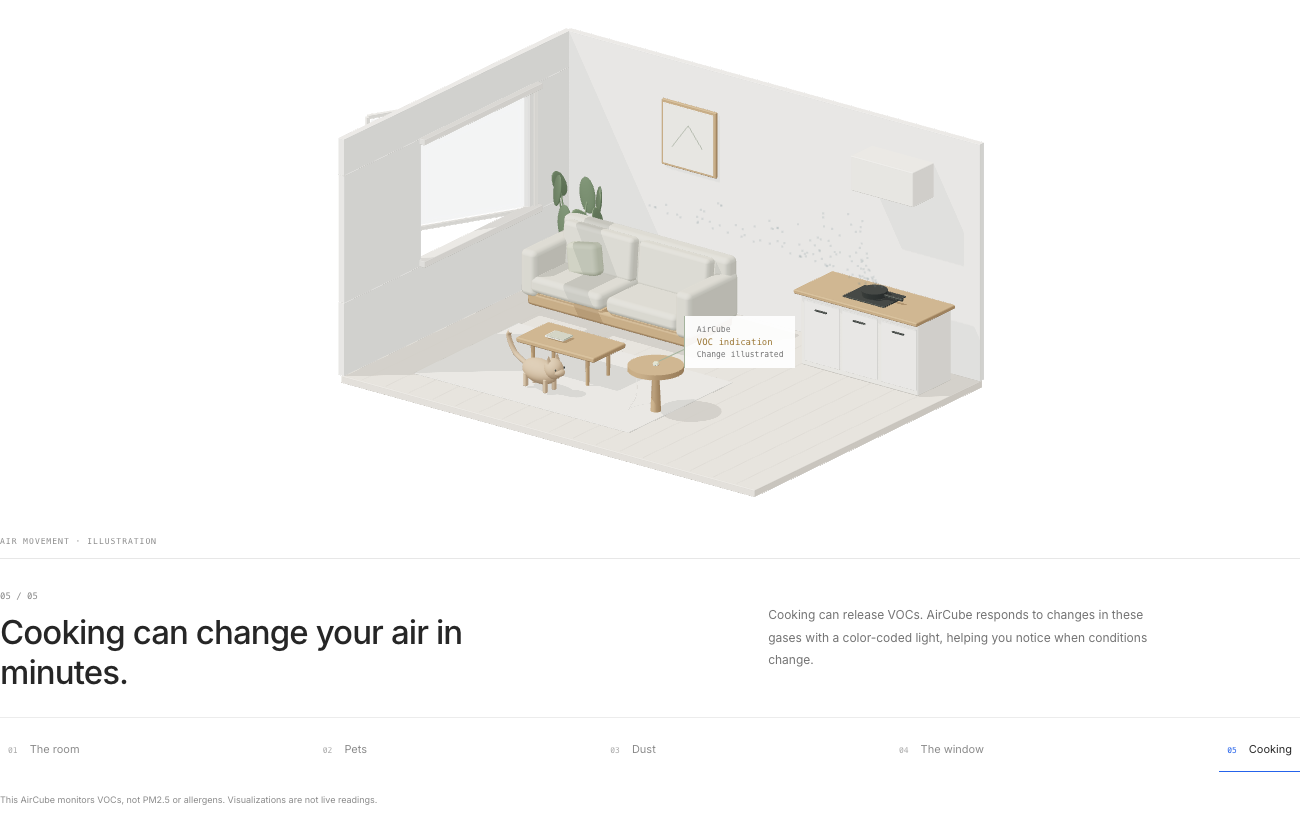
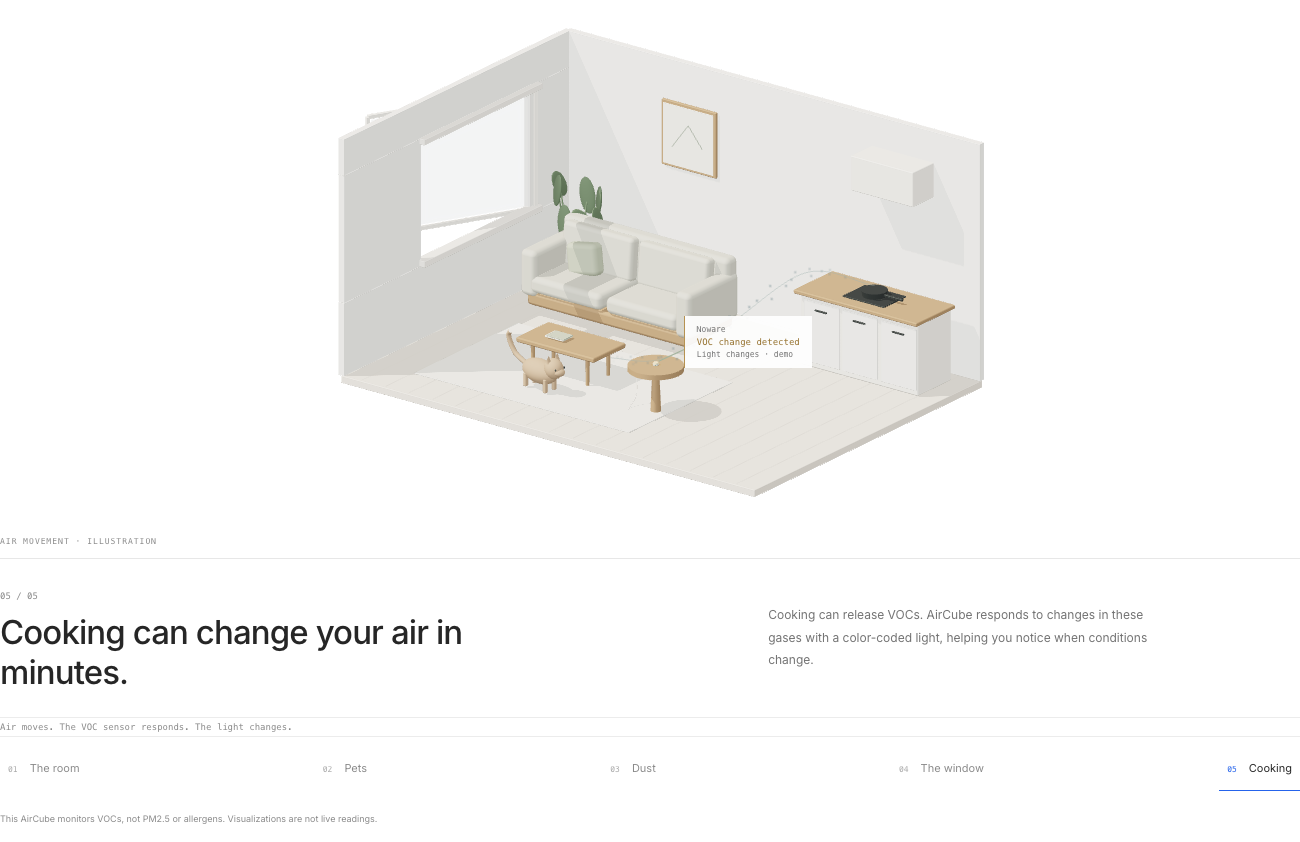
Make room illustration continuous with staged VOC detection

diff --git a/src/purpose/room.js b/src/purpose/room.js
@@ -2,6 +2,7 @@ import * as T from 'three';
 import {RoundedBoxGeometry} from 'three/addons/geometries/RoundedBoxGeometry.js';
 import {GLTFLoader} from 'three/addons/loaders/GLTFLoader.js';
 import {RoomEnvironment} from 'three/addons/environments/RoomEnvironment.js';
+import {roomFlowPaths,flowActivity,detectionPose,illustrationDuration} from './flow.js';
 const smooth=x=>{x=T.MathUtils.clamp(x,0,1);return x*x*(3-2*x)};
 export async function createRoom(host,state,onReady){
  const renderer=new T.WebGLRenderer({antialias:true,alpha:true,preserveDrawingBuffer:true});renderer.setPixelRatio(Math.min(devicePixelRatio,1.7));renderer.setClearColor('#fff',0);renderer.toneMapping=T.ACESFilmicToneMapping;renderer.toneMappingExposure=1;renderer.shadowMap.enabled=true;renderer.shadowMap.type=T.PCFShadowMap;
@@ -42,28 +43,43 @@ export async function createRoom(host,state,onReady){
  const cat=new T.Group();scene.add(cat);ball(.23,.13,.11,0,.19,0,materials.fur,cat);ball(.11,.11,.09,.2,.27,0,materials.fur,cat);ball(.065,.045,.065,.27,.25,0,materials.fur,cat);
  for(const z of [-.062,.062]){const ear=new T.Mesh(new T.ConeGeometry(.045,.09,3),materials.fur);ear.position.set(.18,.38,z);ear.rotation.z=-.2;cat.add(ear);ball(.009,.012,.008,.285,.29,z,materials.metal,cat)}
  const paws=[];for(const x of [-.14,.14])for(const z of [-.065,.065])paws.push(box(.043,.15,.044,x,.08,z,materials.fur,.02,cat));tube([[-.2,.22,0],[-.36,.3,0],[-.43,.48,.02],[-.39,.53,.03]],.025,materials.fur,cat);
- const particleCount=120,positions=new Float32Array(particleCount*3),particleGeo=new T.BufferGeometry();particleGeo.setAttribute('position',new T.BufferAttribute(positions,3));
+ const particleCount=160,positions=new Float32Array(particleCount*3),opacities=new Float32Array(particleCount),particleGeo=new T.BufferGeometry();particleGeo.setAttribute('position',new T.BufferAttribute(positions,3));particleGeo.setAttribute('aOpacity',new T.BufferAttribute(opacities,1));
  const dot=document.createElement('canvas');dot.width=dot.height=32;const ctx=dot.getContext('2d'),gradient=ctx.createRadialGradient(16,16,0,16,16,16);gradient.addColorStop(0,'#fff');gradient.addColorStop(.5,'#ffffffbb');gradient.addColorStop(1,'#ffffff00');ctx.fillStyle=gradient;ctx.fillRect(0,0,32,32);const dotTexture=new T.CanvasTexture(dot);
- const particles=new T.Points(particleGeo,new T.PointsMaterial({size:2.2,map:dotTexture,color:'#778b90',transparent:true,opacity:0,depthWrite:false,sizeAttenuation:false}));scene.add(particles);
+ const particles=new T.Points(particleGeo,new T.PointsMaterial({size:3,map:dotTexture,color:'#778b90',transparent:true,opacity:.75,depthWrite:false,sizeAttenuation:false}));scene.add(particles);
+ particles.material.onBeforeCompile=shader=>{shader.vertexShader=shader.vertexShader.replace('#include <common>','#include <common>\nattribute float aOpacity; varying float vOpacity;').replace('#include <begin_vertex>','#include <begin_vertex>\nvOpacity=aOpacity;');shader.fragmentShader=shader.fragmentShader.replace('#include <common>','#include <common>\nvarying float vOpacity;').replace('#include <color_fragment>','#include <color_fragment>\ndiffuseColor.a *= vOpacity;');};
+ const curves=roomFlowPaths.map(points=>new T.CatmullRomCurve3(points.map(p=>new T.Vector3(...p))));
+ const trails=curves.map(curve=>{const line=new T.Line(new T.BufferGeometry().setFromPoints(curve.getPoints(80)),new T.LineBasicMaterial({color:'#91a5a2',transparent:true,opacity:0,depthWrite:false}));scene.add(line);return line});
+ const pulse=new T.Mesh(new T.RingGeometry(.045,.049,48),new T.MeshBasicMaterial({color:'#c6a05d',transparent:true,opacity:0,depthWrite:false,side:T.DoubleSide}));pulse.rotation.x=-Math.PI/2;pulse.position.set(.53,.521,.8);scene.add(pulse);
+ const flowPoint=new T.Vector3();
  scene.add(new T.HemisphereLight('#fffaf0','#d4d5d0',1));const sunlight=new T.DirectionalLight('#fff4df',2.6);sunlight.position.set(-3.5,6,3);sunlight.castShadow=true;sunlight.shadow.mapSize.set(2048,2048);Object.assign(sunlight.shadow.camera,{left:-4,right:4,top:4,bottom:-4,near:.5,far:16});sunlight.shadow.bias=-.0003;sunlight.shadow.normalBias=.015;scene.add(sunlight);const fill=new T.DirectionalLight('#e5efff',.6);fill.position.set(4,3,4);scene.add(fill);
  let product;try{product=(await new GLTFLoader().loadAsync('/showcase/aircube-base.glb')).scene;}catch(error){dispose();throw error}
  product.scale.setScalar(.001);product.position.set(.53,.518,.8);product.rotation.y=.3;product.traverse(o=>{if(o.isMesh)o.castShadow=o.receiveShadow=true});scene.add(product);
  const diffuser=product.getObjectByName('diffuser');diffuser.material.dispose();diffuser.material=new T.MeshPhysicalMaterial({color:'#c8dfb9',roughness:.5,transmission:.08,thickness:.0013,emissive:'#91d980',emissiveIntensity:.3});
  const canvas=renderer.domElement;canvas.setAttribute('role','img');canvas.setAttribute('aria-label','A shared living room with a sofa, cat, openable window, kitchen and AirCube on a side table. Air movement is illustrated.');host.append(canvas);
  const anchor=host.parentElement.querySelector('.room-device-label');
- function render(now){raf=0;if(dead||!visible||document.hidden)return;const dt=Math.min(.06,(now-last)/1000);last=now;time+=dt;progress=state.reduced?state.progress:T.MathUtils.damp(progress,state.progress,9,dt);
+ function render(now){raf=0;if(dead||!visible||document.hidden)return;const dt=Math.min(.06,(now-last)/1000);last=now;if(state.mode!=='paused')time+=dt;if(state.mode==='play'&&!state.reduced){state.progress=Math.min(.999,state.progress+dt/illustrationDuration);if(state.progress>=.999)state.mode='paused'}progress=state.reduced?state.progress:T.MathUtils.damp(progress,state.progress,9,dt);
  const chapter=Math.min(4,Math.floor(progress*5)),local=progress*5-chapter,activity=smooth(local*2);
  const walking=chapter===1?activity:chapter>1?1:0;cat.position.set(T.MathUtils.lerp(-1.7,-.78,walking),.025,1.03);cat.rotation.y=-.13;for(let i=0;i<paws.length;i++)paws[i].rotation.z=chapter===1&&!state.reduced?Math.sin(time*6+i%2*Math.PI)*.22*(1-activity):0;
  pillow.rotation.z=.18+(chapter===2?Math.sin(local*Math.PI*4)*.16*Math.sin(local*Math.PI):0);pillow.position.y=.59+(chapter===2?Math.sin(local*Math.PI*2)**2*.11:0);sash.rotation.y=chapter===3?-.48*activity:chapter>3?-.48:0;
- const show=(chapter>0?Math.min(1,activity*1.5):smooth((local-.35)*3))*(1-smooth((local-.82)/.18));particles.material.opacity=show*.45;
- const sources=[[-.6,.3,.4],[-.9,.15,1],[-1.73,.7,-.99],[-2.55,1.3,-.35],[1.65,.94,-1.42]];const origin=sources[chapter];
- for(let i=0;i<particleCount;i++){const seed=(Math.sin(i*12.9898+3)*43758.5453)%1+.5,life=((seed+(state.reduced?0:time*.065))%1+1)%1,a=i*1.74533;positions[i*3]=origin[0]+Math.cos(a+life)*(.12+life*.8)+(chapter===3?life*2.3:chapter===4?-life*.7:life*.2);positions[i*3+1]=origin[1]+life*(chapter===4?1:.65)+Math.sin(a)*.07;positions[i*3+2]=origin[2]+Math.sin(a)*life*.7+(chapter===4?life*1.1:0)}particleGeo.attributes.position.needsUpdate=true;
+ const detection=detectionPose(progress);
+ for(let source=0;source<curves.length;source++){
+  const strength=flowActivity(progress,source),head=source===3?detection.arrival:1;
+  trails[source].material.opacity=strength*(source===3?.4:.18);trails[source].geometry.setDrawRange(0,Math.max(0,Math.floor(head*80)));
+  for(let j=0;j<40;j++){
+   const i=source*40+j,life=(j/40+(state.reduced?0:time*.13))%1;
+   curves[source].getPoint(life,flowPoint);const spread=source===3?.045:.09,a=j*2.399;
+   positions[i*3]=flowPoint.x+Math.cos(a+life*2)*spread;positions[i*3+1]=flowPoint.y+Math.sin(a)*spread;positions[i*3+2]=flowPoint.z+Math.sin(a+life)*spread;
+   opacities[i]=strength*Math.sin(Math.PI*life)*(life<=head?1:0);
+  }
+ }
+ particleGeo.attributes.position.needsUpdate=true;particleGeo.attributes.aOpacity.needsUpdate=true;
+ pulse.scale.setScalar(1+(state.reduced?0:(time*.65)%1)*1.8);pulse.material.opacity=detection.sensing*(state.reduced?.65:.7*(1-(time*.65)%1));
  const target=new T.Vector3(-.15,1.05,0),aspect=host.clientWidth/host.clientHeight,span=innerWidth<700?6.4:6;const vertical=Math.max(span/aspect,5.7);camera.left=-vertical*aspect/2;camera.right=vertical*aspect/2;camera.top=vertical/2;camera.bottom=-vertical/2;camera.position.set(5,4.4,6.8);if(!state.reduced){camera.position.x-=progress*.3;target.z+=progress*.07}camera.lookAt(target);camera.updateProjectionMatrix();camera.updateMatrixWorld(true);
  const point=new T.Vector3(.53,.57,.8).project(camera);anchor.style.left=`${(point.x*.5+.5)*host.clientWidth}px`;anchor.style.top=`${(-point.y*.5+.5)*host.clientHeight}px`;
  // Only a verified VOC scene may illustrate the light changing; particle-only scenes do not drive it.
- const response=chapter===4?smooth(local*3)*(1-smooth((local-.7)/.3)):0;const tint=new T.Color('#91d980').lerp(new T.Color('#e6bd61'),response);diffuser.material.emissive.lerp(tint,state.reduced?1:1-Math.exp(-dt*4));
- renderer.render(scene,camera);host.dataset.chapter=chapter;host.dataset.ready='true';host.dataset.progress=progress.toFixed(3);host.parentElement.classList.add('room-ready');onReady?.(chapter,local);
- if(!state.reduced||Math.abs(progress-state.progress)>.001)raf=requestAnimationFrame(render);
+ const response=detection.response;const tint=new T.Color('#91d980').lerp(new T.Color('#e6bd61'),response);diffuser.material.emissive.copy(tint);diffuser.material.color.copy(new T.Color('#f5f1df').lerp(tint,.55));
+ renderer.render(scene,camera);host.dataset.detection=detection.phase;host.dataset.response=response.toFixed(3);host.dataset.chapter=chapter;host.dataset.ready='true';host.dataset.progress=progress.toFixed(3);host.parentElement.classList.add('room-ready');onReady?.(chapter,local,detection);
+ if((!state.reduced&&state.mode!=='paused')||Math.abs(progress-state.progress)>.001)raf=requestAnimationFrame(render);
  }
  function wake(){if(!raf&&!dead&&visible&&!document.hidden){last=performance.now();raf=requestAnimationFrame(render)}}
  function resize(){if(!host.clientWidth||!host.clientHeight)return;renderer.setSize(host.clientWidth,host.clientHeight);wake()}

diff --git a/src/purpose/index.js b/src/purpose/index.js
@@ -3,20 +3,27 @@ import {roomChapters,roomChapterAt} from './story.js';
 export function mountPurpose(){
  const section=document.createElement('section');section.id='what-it-does';section.className='purpose-story';section.setAttribute('aria-labelledby','purpose-title');
  section.innerHTML=`<div class="purpose-heading"><span class="purpose-eyebrow">WHAT DOES IT DO?</span><h2 id="purpose-title">AirCube watches<br>the air around you.</h2><p>It continuously monitors VOCs, temperature, and humidity—helping you understand changes in the air around you.</p></div>
- <div class="room-scroll"><div class="room-sticky"><div class="room-stage"><picture><source media="(max-width:700px)" srcset="/showcase/room/poster-mobile.webp"><img class="room-poster" src="/showcase/room/poster.webp" width="1440" height="750" alt="A bright living room with a sofa, cat, kitchen, window, and AirCube on a small side table."></picture><div class="room-canvas"></div><div class="room-device-label"><span>AirCube</span><strong>VOC monitoring</strong><small>Continuous</small></div><span class="room-illustration">AIR MOVEMENT · ILLUSTRATION</span></div>
+ <div class="room-scroll"><div class="room-sticky"><div class="room-stage"><picture><source media="(max-width:700px)" srcset="/showcase/room/poster-mobile.webp"><img class="room-poster" src="/showcase/room/poster.webp" width="1440" height="750" alt="A bright living room with a sofa, cat, kitchen, window, and AirCube on a small side table."></picture><div class="room-canvas"></div><div class="room-device-label"><span>Noware</span><strong>VOC monitoring</strong><small>Continuous</small></div><span class="room-illustration">AIR MOVEMENT · ILLUSTRATION</span></div>
  <div class="room-caption" aria-live="polite" aria-atomic="true"><div><span class="room-count">01 / 05</span><h3>${roomChapters[0].title}</h3></div><p>${roomChapters[0].body}</p></div>
+ <div class="room-playback"><button type="button" class="room-play" aria-label="Pause illustration">Pause illustration <span aria-hidden="true">Ⅱ</span></button><span class="room-sequence">Air moves. The VOC sensor responds. The light changes.</span></div>
  <nav class="room-chapters" aria-label="Explore everyday changes in the room">${roomChapters.map((s,i)=>`<button type="button" data-room-chapter="${i}" aria-current="${i===0?'step':'false'}"><span>0${i+1}</span>${s.name}</button>`).join('')}<button type="button" class="room-resume" hidden>Follow scroll ↓</button></nav><p class="room-note">This AirCube monitors VOCs, not PM2.5 or allergens. Visualizations are not live readings.</p><p class="room-fallback" role="status" hidden>The room preview is shown. Use the chapter controls to explore the story.</p></div></div>
  <div class="purpose-ending"><h2>Know what’s changing your air.</h2><p>See when it gets worse. Understand what happened.<br>Know when it’s getting better.</p><span>Made in America.</span></div>`;
  document.querySelector('.hardware-origin').replaceWith(section);
  const finale=document.createElement('section');finale.id='size-intro';finale.className='purpose-size';finale.innerHTML=`<div><span class="purpose-eyebrow">SMALL BY DESIGN</span><h2>All that.<br>About the size of an egg.</h2><p>A familiar reference for a surprisingly small object.</p></div><button class="purpose-size-open" type="button" aria-expanded="false" aria-controls="size">See the size comparison <span aria-hidden="true">↗</span></button>`;section.after(finale);
- const reduced=matchMedia('(prefers-reduced-motion: reduce)'),mobile=matchMedia('(max-width:700px)'),state={progress:0,reduced:reduced.matches,mode:'scroll'};let scene,dead=false,lastChapter=-1;
+ const reduced=matchMedia('(prefers-reduced-motion: reduce)'),mobile=matchMedia('(max-width:700px)'),state={progress:0,reduced:reduced.matches,mode:reduced.matches?'manual':'play'};let scene,dead=false,lastChapter=-1;
  const scrollArea=section.querySelector('.room-scroll'),resume=section.querySelector('.room-resume');
- function sync(){const chapter=roomChapterAt(state.progress),s=roomChapters[chapter];section.dataset.chapter=chapter;section.dataset.mode=state.mode;section.classList.toggle('room-cooking',chapter===4);if(chapter!==lastChapter){section.querySelector('.room-caption h3').textContent=s.title;section.querySelector('.room-caption p').textContent=s.body;section.querySelector('.room-count').textContent=`0${chapter+1} / 05`;section.querySelector('.room-device-label strong').textContent=s.signal;section.querySelector('.room-device-label small').textContent=s.status;section.querySelectorAll('[data-room-chapter]').forEach(b=>b.setAttribute('aria-current',Number(b.dataset.roomChapter)===chapter?'step':'false'));lastChapter=chapter}resume.hidden=state.mode==='scroll'||state.reduced||mobile.matches;scene?.wake()}
+ function sync(wake=true){const chapter=roomChapterAt(state.progress),s=roomChapters[chapter];section.dataset.chapter=chapter;section.dataset.mode=state.mode;section.classList.toggle('room-cooking',chapter===4);if(chapter!==lastChapter){section.querySelector('.room-caption h3').textContent=s.title;section.querySelector('.room-caption p').textContent=s.body;section.querySelector('.room-count').textContent=`0${chapter+1} / 05`;section.querySelector('.room-device-label strong').textContent=s.signal;section.querySelector('.room-device-label small').textContent=s.status;section.querySelectorAll('[data-room-chapter]').forEach(b=>b.setAttribute('aria-current',Number(b.dataset.roomChapter)===chapter?'step':'false'));lastChapter=chapter}resume.hidden=state.mode==='scroll'||state.reduced||mobile.matches;const play=section.querySelector('.room-play');play.hidden=state.reduced;play.textContent=state.mode==='play'?'Pause illustration Ⅱ':state.progress>=.99?'Replay illustration ↻':'Play illustration →';play.setAttribute('aria-label',state.mode==='play'?'Pause illustration':'Play illustration');if(wake)scene?.wake()}
  function scroll(){if(state.mode!=='scroll'||state.reduced||mobile.matches)return;const rect=scrollArea.getBoundingClientRect(),distance=scrollArea.offsetHeight-section.querySelector('.room-sticky').offsetHeight;state.progress=Math.max(0,Math.min(.999,(-rect.top+16)/Math.max(1,distance)));sync()}
- section.addEventListener('click',e=>{const button=e.target.closest('[data-room-chapter]');if(button){state.mode='manual';state.progress=(Number(button.dataset.roomChapter)+.65)/roomChapters.length;sync()}});
+ section.addEventListener('click',e=>{const button=e.target.closest('[data-room-chapter]');if(button){state.mode=state.reduced?'manual':'play';state.progress=(Number(button.dataset.roomChapter)+(state.reduced?.65:.05))/roomChapters.length;sync()}});
+ section.querySelector('.room-play').addEventListener('click',()=>{state.mode=state.mode==='play'?'paused':'play';if(state.mode==='play'&&state.progress>=.99)state.progress=0;sync()});
  resume.addEventListener('click',()=>{state.mode='scroll';scroll()});
- function preference(){state.reduced=reduced.matches;if(state.reduced||mobile.matches){state.mode='manual';state.progress=0}sync();scroll()}
+ function preference(){state.reduced=reduced.matches;if(state.reduced){state.mode='manual';state.progress=0}else if(state.mode==='manual'){state.mode='play'}sync();scroll()}
  window.addEventListener('scroll',scroll,{passive:true});reduced.addEventListener('change',preference);mobile.addEventListener('change',preference);preference();
- const observer=new IntersectionObserver(async([entry])=>{if(!entry.isIntersecting)return;observer.disconnect();try{const {createRoom}=await import('./room.js');if(dead)return;scene=await createRoom(section.querySelector('.room-canvas'),state,(chapter,local)=>{const label=section.querySelector('.room-device-label small'),text=chapter===4&&local>.87?'Settling · illustrated':roomChapters[chapter].status;if(label.textContent!==text)label.textContent=text});if(dead)scene.dispose();else sync()}catch(error){section.classList.add('room-unavailable');section.querySelector('.room-fallback').hidden=false;console.warn('Room story uses its poster fallback:',error.message)}},{rootMargin:'300px'});observer.observe(section);
+ const observer=new IntersectionObserver(async([entry])=>{if(!entry.isIntersecting)return;observer.disconnect();try{const {createRoom}=await import('./room.js');if(dead)return;scene=await createRoom(section.querySelector('.room-canvas'),state,(chapter,local,detection)=>{
+ sync(false);
+ const strong=section.querySelector('.room-device-label strong'),label=section.querySelector('.room-device-label small');
+ const phases={monitoring:['VOC monitoring','Continuous'],air:['Ambient air moves','Illustration'],sensing:['VOC sensor responds','Illustration'],signal:['VOC change detected','Light changes · demo'],settling:['VOC indication','Settling · illustrated']};
+ const text=phases[detection.phase];if(strong.textContent!==text[0])strong.textContent=text[0];if(label.textContent!==text[1])label.textContent=text[1];section.dataset.detection=detection.phase;
+ });if(dead)scene.dispose();else sync()}catch(error){section.classList.add('room-unavailable');section.querySelector('.room-fallback').hidden=false;console.warn('Room story uses its poster fallback:',error.message)}},{rootMargin:'300px'});observer.observe(section);
  const dispose=()=>{dead=true;observer.disconnect();scene?.dispose();window.removeEventListener('scroll',scroll);reduced.removeEventListener('change',preference);mobile.removeEventListener('change',preference)};if(import.meta.hot)import.meta.hot.dispose(dispose);return dispose;
 }

diff --git a/src/purpose/purpose.css b/src/purpose/purpose.css
@@ -7,3 +7,8 @@
 .purpose-size{padding:65px 8%;background:#fafafa;display:flex;justify-content:space-between;align-items:center;gap:40px;border-top:1px solid #e8e8e8;border-bottom:1px solid #e8e8e8}.purpose-size[hidden]{display:none}.purpose-size h2{font-size:clamp(32px,3.3vw,48px);line-height:1.15;letter-spacing:-1.8px;font-weight:500;color:#262626;margin:20px 0 18px}.purpose-size p{font-size:13px;color:#737373;margin:0;line-height:1.8}.purpose-size-open{display:flex;gap:30px;align-items:center;background:none;border:0;border-bottom:1px solid #aaa;min-height:48px;padding:10px 0;color:#262626;font:inherit;font-size:12px;cursor:pointer;white-space:nowrap}.purpose-size-open span{font-size:18px}.purpose-story button:focus-visible,.purpose-size-open:focus-visible{outline:2px solid #2563eb;outline-offset:4px}
 @media(max-width:700px){.purpose-story{padding:45px 22px 0}.purpose-heading{display:block;margin-bottom:15px}.purpose-heading h2{font-size:39px;letter-spacing:-1.7px;margin:18px 0}.purpose-heading>p{font-size:12px;line-height:1.8}.room-scroll{height:auto}.room-sticky{position:relative;top:0;padding-bottom:30px}.room-stage{height:345px;min-height:0;margin:0 -16px}.room-device-label{font-size:7px;transform:translate(15px,-45px);padding:6px;gap:2px}.room-device-label>span,.room-device-label small{font-size:7px}.room-device-label:before{left:-16px;width:15px}.room-illustration{left:16px;font-size:7px}.room-caption{display:block;padding:22px 0;min-height:192px}.room-caption h3{font-size:26px;margin:10px 0 15px;letter-spacing:-.8px}.room-caption>p{font-size:11px;line-height:1.8}.room-chapters{gap:5px;justify-content:space-between}.room-chapters button{font-size:10px;padding:0 2px}.room-chapters button span{display:none}.room-note{font-size:8px}.purpose-ending{padding:40px 0}.purpose-ending h2{font-size:32px;letter-spacing:-1.1px}.purpose-ending p{font-size:12px}.purpose-ending>span{position:static;display:block;margin-top:22px;font-size:11px}.purpose-size{padding:40px 22px;flex-direction:column;align-items:flex-start;gap:22px}.purpose-size h2{font-size:33px;letter-spacing:-1.2px}.purpose-size p{font-size:12px}}
 @media(prefers-reduced-motion:reduce){.room-scroll{height:auto}.room-sticky{position:relative;top:0}}
+
+.room-playback{display:flex;align-items:center;justify-content:space-between;gap:20px;border-top:1px solid #ececec;padding:4px 0}.room-play{background:none;border:0;min-height:44px;padding:0 8px;font:inherit;font-size:11px;color:#404040;cursor:pointer}.room-sequence{font:9px ui-monospace,SFMono-Regular,Menlo,monospace;color:#8a8a8a}.purpose-story[data-detection=sensing] .room-device-label,.purpose-story[data-detection=signal] .room-device-label{border-color:#b69251}.purpose-story[data-detection=signal] .room-device-label strong{color:#95712d}
+@media(max-width:700px){.room-playback{gap:10px}.room-sequence{max-width:185px;font-size:8px;line-height:1.6}.room-play{padding:0;font-size:10px}}
+
+.room-unavailable .room-playback,.room-unavailable .room-resume{display:none}

diff --git a/src/purpose/flow.js b/src/purpose/flow.js
@@ -1,0 +1,22 @@
+const clamp=n=>Math.max(0,Math.min(1,n));
+export const ease=n=>{n=clamp(n);return n*n*(3-2*n)};
+export const illustrationDuration=24;
+// Ambient paths pass through the room, rather than ending at a suction point.
+// The cooking path passes just above the physical enclosure, then continues past it.
+export const roomFlowPaths=[
+ [[-.9,.25,1],[-.8,.85,1.15],[.2,.9,1.1],[1.3,1.2,1.1]],
+ [[-1.73,.7,-.99],[-1.4,1.1,-.1],[-.8,1.25,.65],[.1,1.4,1.3]],
+ [[-2.55,1.3,-.35],[-1.6,1.55,.2],[-.3,1.45,.55],[1.35,1.6,.8]],
+ [[1.65,.96,-1.42],[1.4,1.3,-.6],[.95,.85,.15],[.55,.575,.78],[.3,.7,1.3]],
+];
+export function flowActivity(progress,source){
+ const start=[.13,.33,.53,.72][source],end=[.39,.59,.8,.95][source];
+ return ease((progress-start)/.065)*(1-ease((progress-end)/.065));
+}
+export function detectionPose(progress){
+ const arrival=ease((progress-.74)/.1);
+ const sensing=ease((progress-.84)/.025)*(1-ease((progress-.95)/.05));
+ const response=ease((progress-.865)/.045)*(1-ease((progress-.95)/.05));
+ const phase=progress<.74?'monitoring':progress<.84?'air':progress<.865?'sensing':progress<.95?'signal':'settling';
+ return {arrival,sensing,response,phase};
+}

diff --git a/tests/room-flow.test.js b/tests/room-flow.test.js
@@ -1,0 +1,16 @@
+import {test} from 'node:test';
+import assert from 'node:assert/strict';
+import {detectionPose,flowActivity} from '../src/purpose/flow.js';
+test('VOC indication follows illustrated air arrival and sensor response, then settles',()=>{
+ assert.equal(detectionPose(.8).response,0);
+ assert.equal(detectionPose(.845).arrival,1);
+ assert.equal(detectionPose(.845).response,0);
+ assert.equal(detectionPose(.89).sensing,1);
+ assert.ok(detectionPose(.89).response>0);
+ assert.equal(detectionPose(1).response,0);
+ for(let i=0;i<840;i++)assert.equal(detectionPose(i/1000).sensing,0,'No pet/dust event should produce a VOC detection animation');
+});
+test('successive air illustrations overlap instead of switching emitters abruptly',()=>{
+ for(const [p,a,b] of [[.38,0,1],[.58,1,2],[.77,2,3]]){assert.ok(flowActivity(p,a)>0);assert.ok(flowActivity(p,b)>0)}
+ for(let i=0;i<=1000;i++)for(let source=0;source<4;source++){const v=flowActivity(i/1000,source);assert.ok(v>=0&&v<=1)}
+});

diff --git a/scripts/purpose/HANDOFF.md b/scripts/purpose/HANDOFF.md
@@ -17,3 +17,8 @@ Run `npm run dev -- --port 5177`; open http://localhost:5177/home.html#what-it-d
 Build: `npm run build`; tests: `npm test`. No lint/typecheck script exists. Existing shared Three.js bundle-size warning remains. Chrome headless validates layout and behavior, not physical-device frame rate.
 
 Important unresolved product-specification issue: current Base hardware has no documented particulate sensor. Requested numeric PM2.5 demonstrations and allergy-detection implications are not shipped in this version. The room/environment story is implemented, but those product claims require verified hardware support. See the asset README for sources and exact limitations.
+
+## Continuous illustration update
+The same room now plays once over 24 seconds when visible. Four overlapping air paths keep continuity between activities; the cooking example stages ambient-air arrival, a VOC sensing pulse, a delayed light response, and recovery. Pause/play and replay are available. Chapter controls skip within the same scene; Follow scroll explicitly hands progress to reversible scrolling. Reduced motion uses static chapter poses. Offscreen/hidden rendering pauses.
+
+`src/purpose/flow.js` controls duration, source paths, overlap, and response timing. `room.js` controls particle visibility, the pulse, and materials. `tests/room-flow.test.js` checks overlapping source activity and detection ordering. `scripts/purpose/playback.mjs` verifies browser playback and captures the response. The visual paths and response timing are illustrative, not modeled gas transport or measured sensor latency.

diff --git a/public/showcase/room/README.md b/public/showcase/room/README.md
@@ -13,3 +13,5 @@ The user has been asked whether a different PM-capable revision exists; that que
 
 ## Posters
 `poster.webp` and `poster-mobile.webp` are rendered from the same scene using `node scripts/purpose/check.mjs` with local Chrome. Run Vite at port 5177 first, or set `TEST_URL`. The static fallback preserves chapter copy and keyboard controls when GLB loading or WebGL is unavailable. It does not animate the room.
+
+The continuous playback uses four overlapping paths configured in `src/purpose/flow.js`. Cooking air passes above the enclosure and continues beyond it; it is not sucked into the device. A schematic ring identifies the sensing area, followed by a diffuser response. The path, timing, pulse, and light response are explanatory animation, not a validated internal flow route or measured sensor latency. Playback runs once, with pause/replay and optional scroll control; reduced-motion visitors see static poses.
